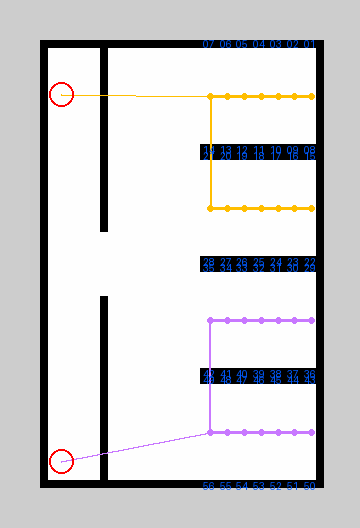
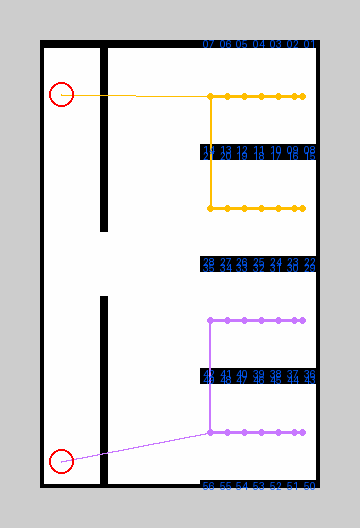
fix(bringup): MAP-02 col 1 점검 pose 벽 간섭 해소 — x 클램프·도어 중심 지향 yaw
- gen_static_map.py: ROBOT_R/MAX_INSPECT_X 추가, inspect x = min(랙 x중심, 3.279),
  yaw = atan2(도어중심 − pose) → col 1 8건만 ±1.3844(≈±79.3°), 나머지 48건 ±π/2 불변
- racks.yaml: oblique 필드 추가(col 1 = true), 클램프 근거 헤더 주석
- render().fill(): 반열림 구간으로 교체 → 경계 셀 중복 제거, 외벽 1셀(res 0.05 기준 0.05m)
- maps/README.md: 클램프 근거·AC 문구(카메라 광축이 도어 중심 ±3°)·MIS-05 옆걸음 미러링 주의

근거: v7 #55(MAP-02·NAV-04 AC), #56(MIS-05). 지도 재생성 후 56/56 점검 pose 검증.

Changed region(s): [[0.8556, 0.0606, 0.9167, 0.9394], [0.1222, 0.0909, 0.275, 0.9394], [0.3056, 0.9091, 0.55, 0.9394]]

diff --git a/src/idc_bringup/scripts/gen_static_map.py b/src/idc_bringup/scripts/gen_static_map.py
@@ -21,6 +21,8 @@ TRUNK_X          = 1.40            # 서버실 진입 트렁크(통로 입구) x
 DOCK_X, DOCK_R   = 0.27, 0.15      # 도크 원 중심 x(벽에서 27cm), 반지름
 DOCK_YAW         = math.pi         # 도킹 상태 로봇 전면 -x
 MARGIN           = 0.50            # 지도 바깥 unknown 여백
+ROBOT_R          = 0.171                       # Create 3 반경
+MAX_INSPECT_X    = BOARD_W - ROBOT_R - 0.05    # 3.279 → 오른쪽 벽 여유 5cm. col 1 점검 pose 클램프
 
 # 랙 줄 정의: (도면 y_top 시작, 면 방향) — 면 방향 '-y'=아래(도면 기준 통로 쪽), '+y'=위
 # 8줄, 위에서 아래로. ①단독 ②③등맞대기 ④⑤등맞대기 ⑥⑦등맞대기 ⑧단독
@@ -59,13 +61,17 @@ def build_racks():
             cx, cy = (x_lo + x_hi) / 2, (y_lo + y_hi) / 2
             # 랙 면: 'down'(도면 아래)=ROS -y 방향으로 면함 → 로봇은 그 아래(작은 y)에서 +y(π/2)를 봄
             face_ros = '-y' if face == 'down' else '+y'
-            yaw = math.pi / 2 if face_ros == '-y' else -math.pi / 2
             face_y = y_lo if face_ros == '-y' else y_hi
             assert abs(abs(aisle_y - face_y) - AISLE_OFFSET) < 1e-6, (rid, aisle_y, face_y)
+            # col 1은 랙이 오른쪽 벽에 붙어 있어 랙 x 중심에 로봇이 설 수 없음 → x 클램프 후
+            # yaw를 랙 면 중심 지향으로 계산. 비클램프 시 atan2(±0.615, 0) = ±π/2 그대로.
+            ix = min(cx, MAX_INSPECT_X)
+            yaw = math.atan2(face_y - aisle_y, cx - ix)
+            oblique = ix < cx
             racks.append(dict(
                 rack_id=f'R{rid:02d}', aruco_id=rid, zone_id=zone, row=row_i + 1, col=k + 1,
                 center=(round(cx, 4), round(cy, 4)), bbox=(round(x_lo,4), round(y_lo,4), round(x_hi,4), round(y_hi,4)),
-                face=face_ros, inspect=(round(cx, 4), round(aisle_y, 4), round(yaw, 4))))
+                face=face_ros, inspect=(round(ix, 4), round(aisle_y, 4), round(yaw, 4)), oblique=oblique))
             rid += 1
     return racks
 
@@ -75,10 +81,10 @@ def render(racks, res):
     ox, oy = -MARGIN, -MARGIN                                # 지도 원점(좌하단, m)
     def cell(x, y):                                          # ROS m → 픽셀 (row 0 = 위)
         return int((x - ox) / res), H - 1 - int((y - oy) / res)
-    def fill(x0, y0, x1, y1, val):
-        c0, r1 = cell(x0, y0); c1, r0 = cell(x1, y1)
-        c1 = max(c1, c0); r1 = max(r1, r0)
-        img[r0:r1+1, c0:c1+1] = val
+    def fill(x0, y0, x1, y1, val):                           # 반열림 [x0, x1) — 경계 셀 중복 방지
+        c0 = int((x0 - ox) / res);            c1 = math.ceil((x1 - ox) / res) - 1
+        r0 = H - math.ceil((y1 - oy) / res);  r1 = H - 1 - int((y0 - oy) / res)
+        img[r0:max(r1, r0)+1, c0:max(c1, c0)+1] = val
     t = max(WALL_T, res)                                     # 최소 1셀
     fill(0, 0, BOARD_W, BOARD_H, 254)                        # 보드 내부 free
     fill(0, 0, BOARD_W, t, 0); fill(0, BOARD_H - t, BOARD_W, BOARD_H, 0)
@@ -119,7 +125,8 @@ free_thresh: 0.25
     # racks.yaml
     L = ['# racks.yaml — MAP-02 산출물. 좌표계: 보드 좌하단 원점, x→, y↑, m, yaw rad (ROS map 프레임)',
          '# rack_id = "R" + aruco_id 2자리. row 1 = 도면 최상단 줄. col 1 = 오른쪽 벽 쪽.',
-         '# face: 랙 도어가 향하는 방향. inspect_pose: 통로 중심선(랙 면에서 0.615m)에서 랙 정면을 보는 pose.',
+         '# face: 랙 도어가 향하는 방향. inspect_pose: 통로 중심선(랙 면에서 0.615m)에서 랙 도어 중심을 보는 pose.',
+         f'# col 1은 벽 간섭으로 x={MAX_INSPECT_X:.3f} 클램프, yaw는 도어 중심 지향(≈79.4°/−79.4°) — oblique: true. AC는 "카메라 광축이 도어 중심 ±3°".',
          f'board: {{width: {BOARD_W}, height: {BOARD_H}, corridor_width: {CORRIDOR_W}, mid_wall_opening_y: [{MID_WALL_OPEN[0]}, {MID_WALL_OPEN[1]}], trunk_x: {TRUNK_X}}}',
          'zones:']
     for z, yt in ZONES_TOP.items():
@@ -133,7 +140,8 @@ free_thresh: 0.25
     for r in racks:
         cx, cy = r['center']; ix, iy, iyaw = r['inspect']
         L.append(f"  - {{rack_id: {r['rack_id']}, aruco_id: {r['aruco_id']}, zone_id: {r['zone_id']}, row: {r['row']}, col: {r['col']}, "
-                 f"x: {cx:.4f}, y: {cy:.4f}, face: '{r['face']}', inspect_pose: {{x: {ix:.4f}, y: {iy:.4f}, yaw: {iyaw:.4f}}}}}")
+                 f"x: {cx:.4f}, y: {cy:.4f}, face: '{r['face']}', oblique: {str(r['oblique']).lower()}, "
+                 f"inspect_pose: {{x: {ix:.4f}, y: {iy:.4f}, yaw: {iyaw:.4f}}}}}")
     L.append('patrol_routes:   # PM 확정 순서(9/9). 마지막 후 각자 docks[robot]으로 복귀')
     for rb, seq in PATROL.items(): L.append(f'  {rb}: [{", ".join(seq)}]')
     open(f'{a.out}/racks.yaml', 'w').write('\n'.join(L) + '\n')

diff --git a/src/idc_bringup/maps/README.md b/src/idc_bringup/maps/README.md
@@ -22,11 +22,24 @@
 | 통로 중심선 | Z1 y=4.90 · Z2 3.50 · Z3 2.10 · Z4 0.70 |
 | 랙 x 중심 (col 1→7) | 3.395 / 3.185 / 2.975 / 2.765 / 2.555 / 2.345 / 2.135 |
 | 점검 pose | 랙 x 중심, 통로 y, yaw +π/2(위쪽 줄) / −π/2(아래쪽 줄) |
+| 점검 pose 예외 (col 1) | x=3.279 클램프, yaw ±1.3844 (도어 중심 지향, 시선각 10.7°) — `oblique: true` |
 | 도크 | robot11 (0.27, 4.92, π) · robot5 (0.27, 0.33, π) |
 | 통로 입구 | (1.40, 통로 y) |
 | 개구부 | x=0.80 벽, y 2.40~3.20 |
 
 `rack_id = "R" + aruco_id 2자리`, **R01이 오른쪽 벽 쪽**, row 1 = 도면 최상단 줄.
+
+### col 1 점검 pose 클램프 (`oblique: true`)
+col 1 랙(R01·R08·R15·R22·R29·R36·R43·R50)은 실물이 오른쪽 벽에 붙어 있어 랙 x 중심(3.395)에는
+TB4(반경 0.171m)가 설 수 없습니다. `inspect_pose.x`를 `MAX_INSPECT_X = 3.50 − 0.171 − 0.05 = 3.279`로
+클램프하고 yaw를 `atan2(도어중심 − pose)`로 도어 중심 지향(±1.3844 rad ≈ ±79.3°)으로 계산합니다.
+- 카메라 광축은 여전히 도어 중심을 통과 — AC는 "카메라 광축이 도어 중심 ±3°" (v7 #55)
+- 시선각 10.7° 비스듬, 도어까지 0.626m (수직일 때 0.615m). ArUco 판독 한계(60°) 대비 여유 충분
+- 나머지 48건은 종전과 동일(`oblique: false`, yaw ±π/2)
+
+> **VERIFY 옆걸음(MIS-05)**: 아래쪽 줄(yaw −π/2)에서 로봇 기준 왼쪽은 **+x = 벽 쪽**입니다.
+> 목표 x가 `MAX_INSPECT_X`(3.279)를 넘으면 반대쪽으로 미러링해야 합니다 —
+> 0.3m 옆걸음 기준 아래쪽 줄 col 1(3.579)·col 2(3.485)가 위반, col 3(3.275)은 여유 4mm로 사실상 한계.
 
 ## 사용
 ```bash
@@ -50,4 +63,8 @@ ros2 topic pub --once /robot11/initialpose geometry_msgs/PoseWithCovarianceStamp
 ## 트러블슈팅
 - 스캔이 랙 줄과 어긋남 → 실물 오차(랙 위치·통로 폭). 수치를 주면 스크립트 상단 파라미터만 고쳐 재생성(5분).
 - AMCL이 벽 0.5cm를 못 잡음 → `maps/res_0.025/` 로 교체.
+- **res 0.05에서는 벽이 셀 경계에 맞춰 안쪽으로 렌더**되어 우측 벽 내면이 3.450 (실물 3.495).
+  클램프 pose(3.279)의 지도상 여유가 정확히 0.171m = 인스크라이브 반경과 동일(마진 0)이라
+  costmap 인플레이션에 민감합니다. col 1 점검이 abort되면 `res_0.025/`(여유 0.196m)로 교체하거나
+  `MAX_INSPECT_X`를 3.229로 낮춰 재생성하세요.
 - `initialpose` yaw π = quaternion `z=1.0, w=0.0`.
